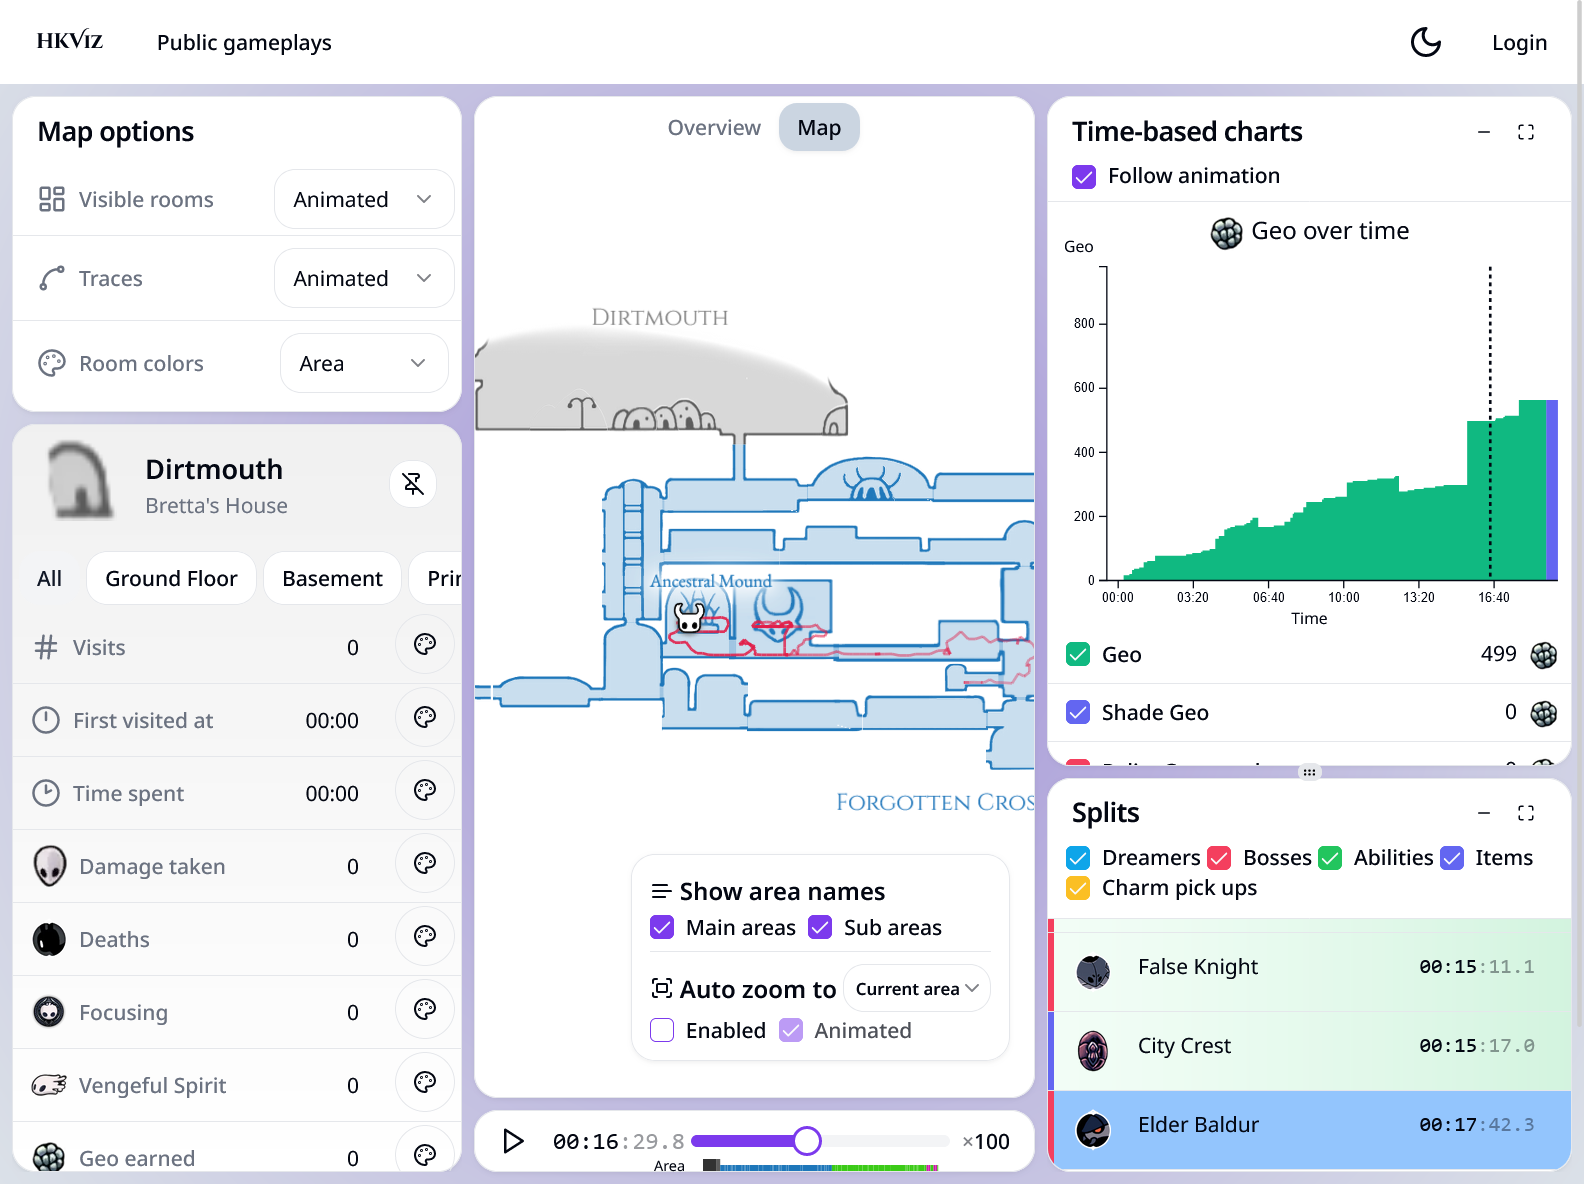
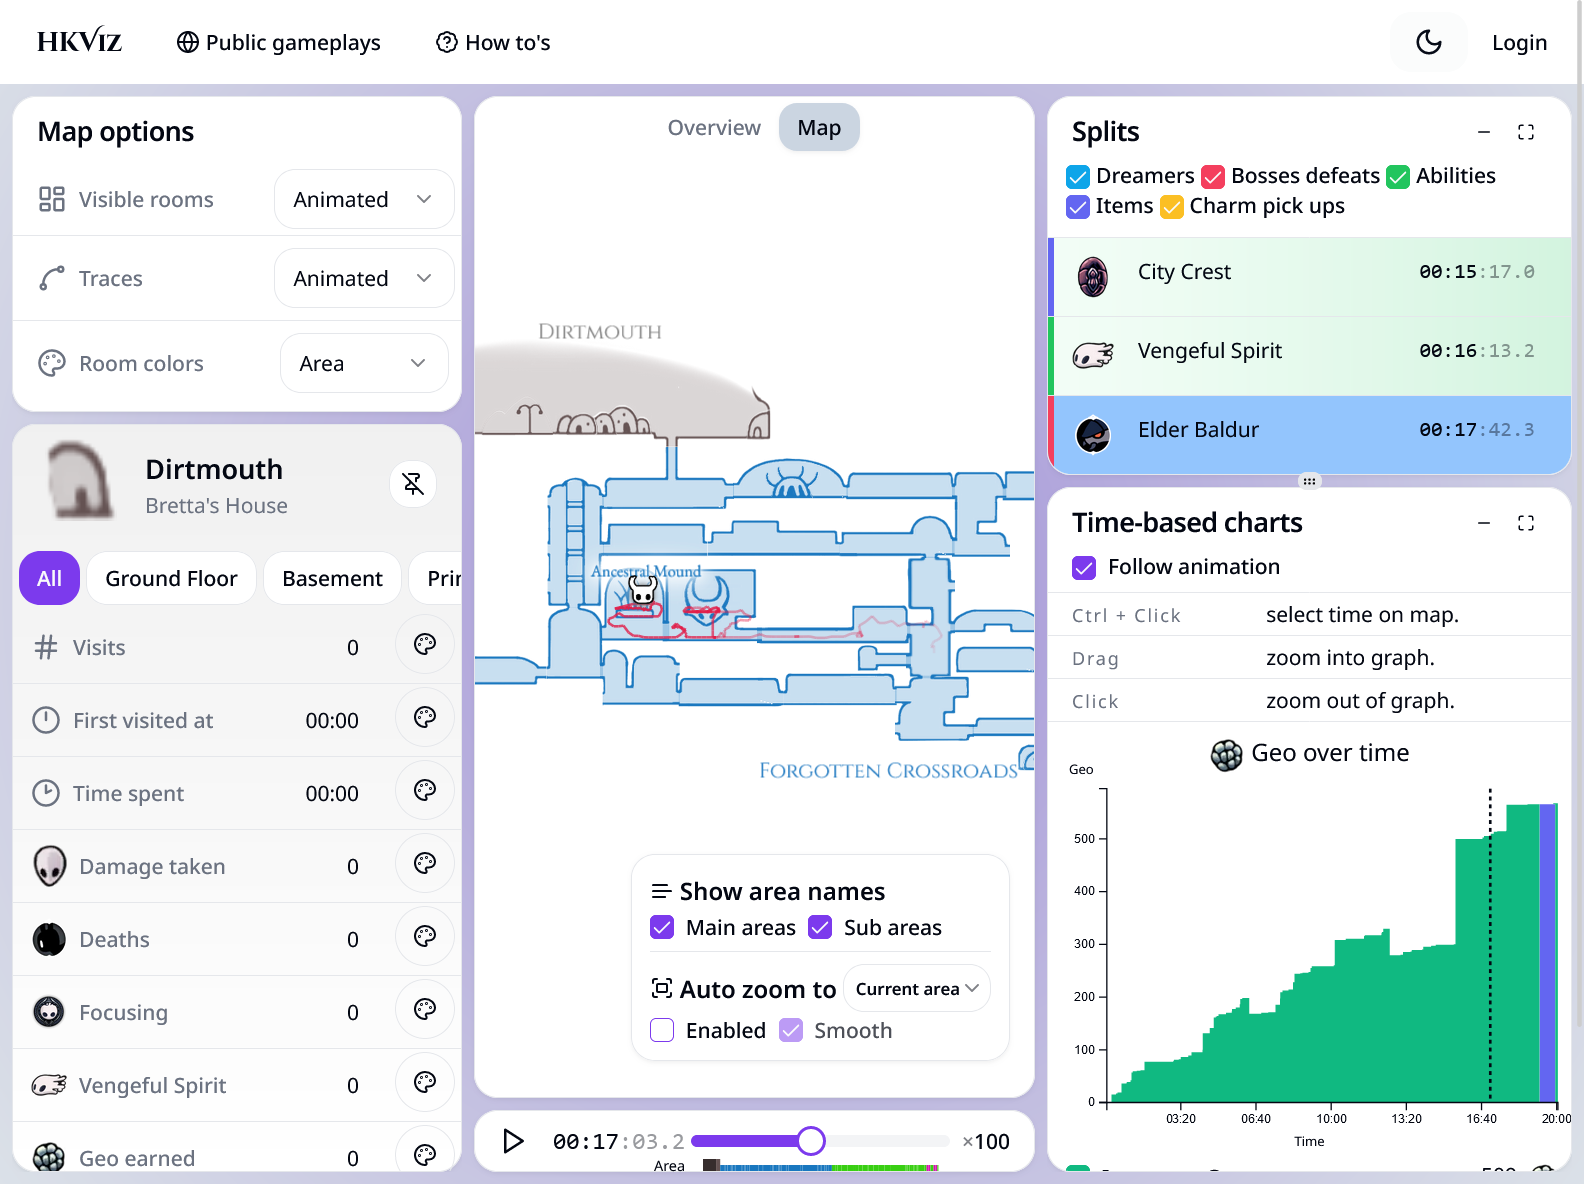
updated screenshots for overview in analytics guide

diff --git a/src/app/(docs)/guide/analytics/_screenshots.tsx b/src/app/(docs)/guide/analytics/_screenshots.tsx
@@ -111,11 +111,11 @@ export function OverviewScreenshot() {
                 <ImageArea positionClassName="left-[30%] top-[93.5%] h-[5.5%] w-[35.25%]" href="#timeline">
                     Timeline
                 </ImageArea>
-                <ImageArea positionClassName="left-[66%] top-[8%] h-[57%] w-[33%]" href="#time-based-charts">
-                    Time charts
-                </ImageArea>
-                <ImageArea positionClassName="left-[66%] top-[65.75%] h-[33%] w-[33%]" href="#splits">
+                <ImageArea positionClassName="left-[66%] top-[8%] h-[32%] w-[33%]" href="#splits">
                     Splits
+                </ImageArea>
+                <ImageArea positionClassName="left-[66%] top-[41.25%] h-[57.75%] w-[33%]" href="#time-based-charts">
+                    Time charts
                 </ImageArea>
             </ImageAreaShadow>
         </ImageContainer>
